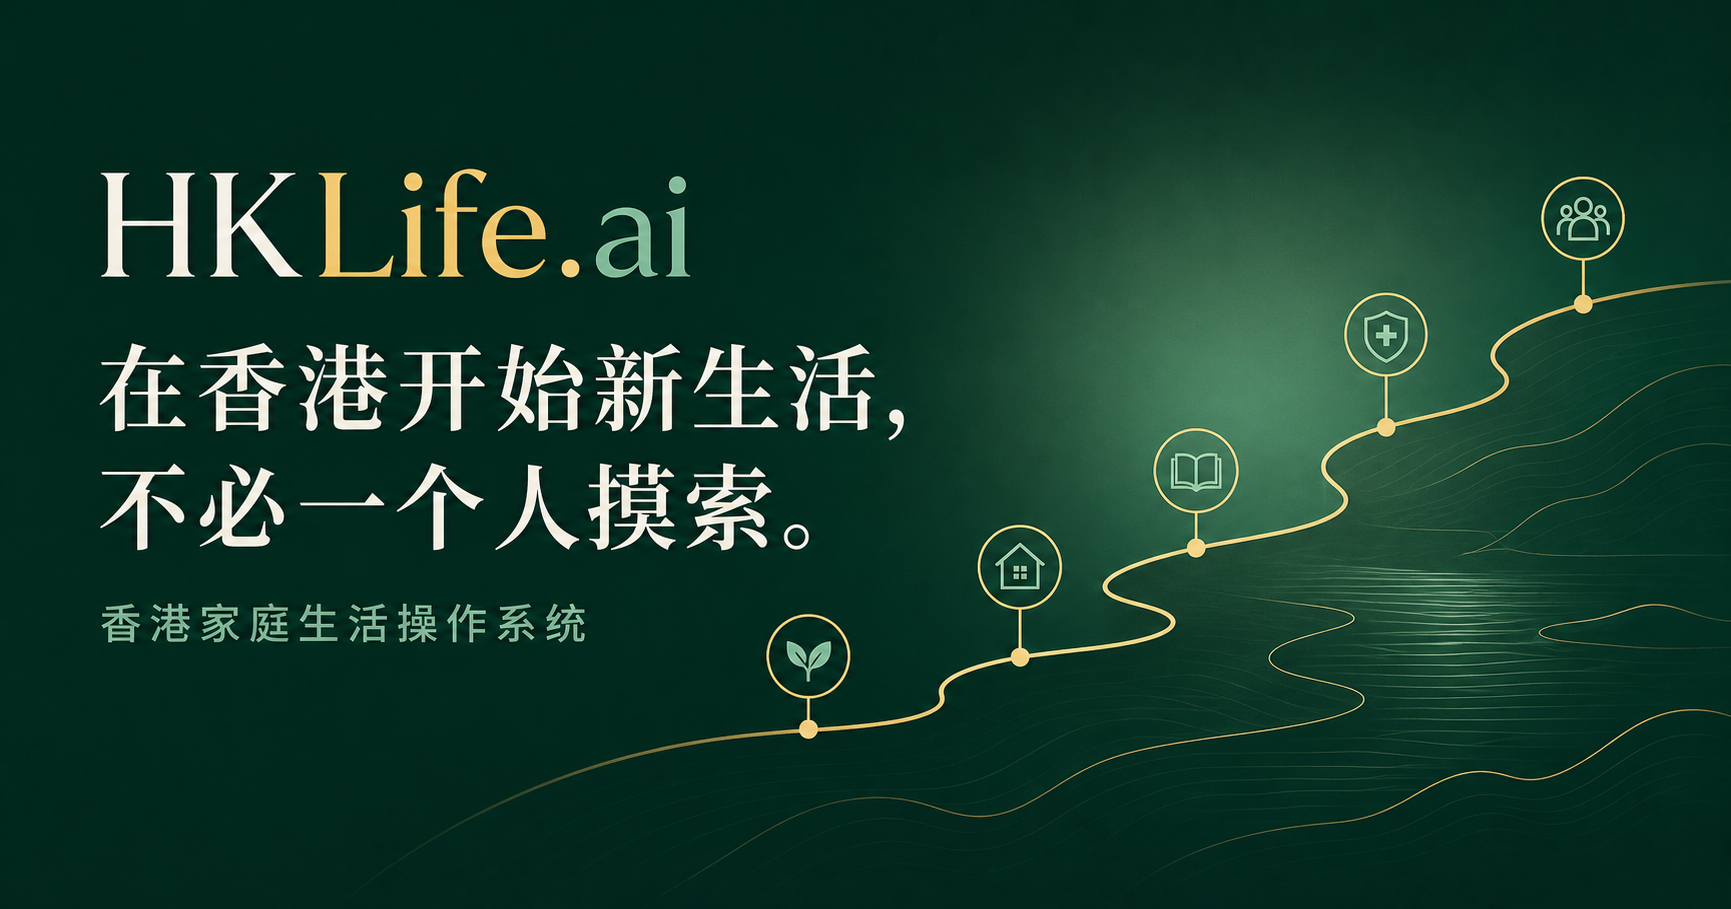
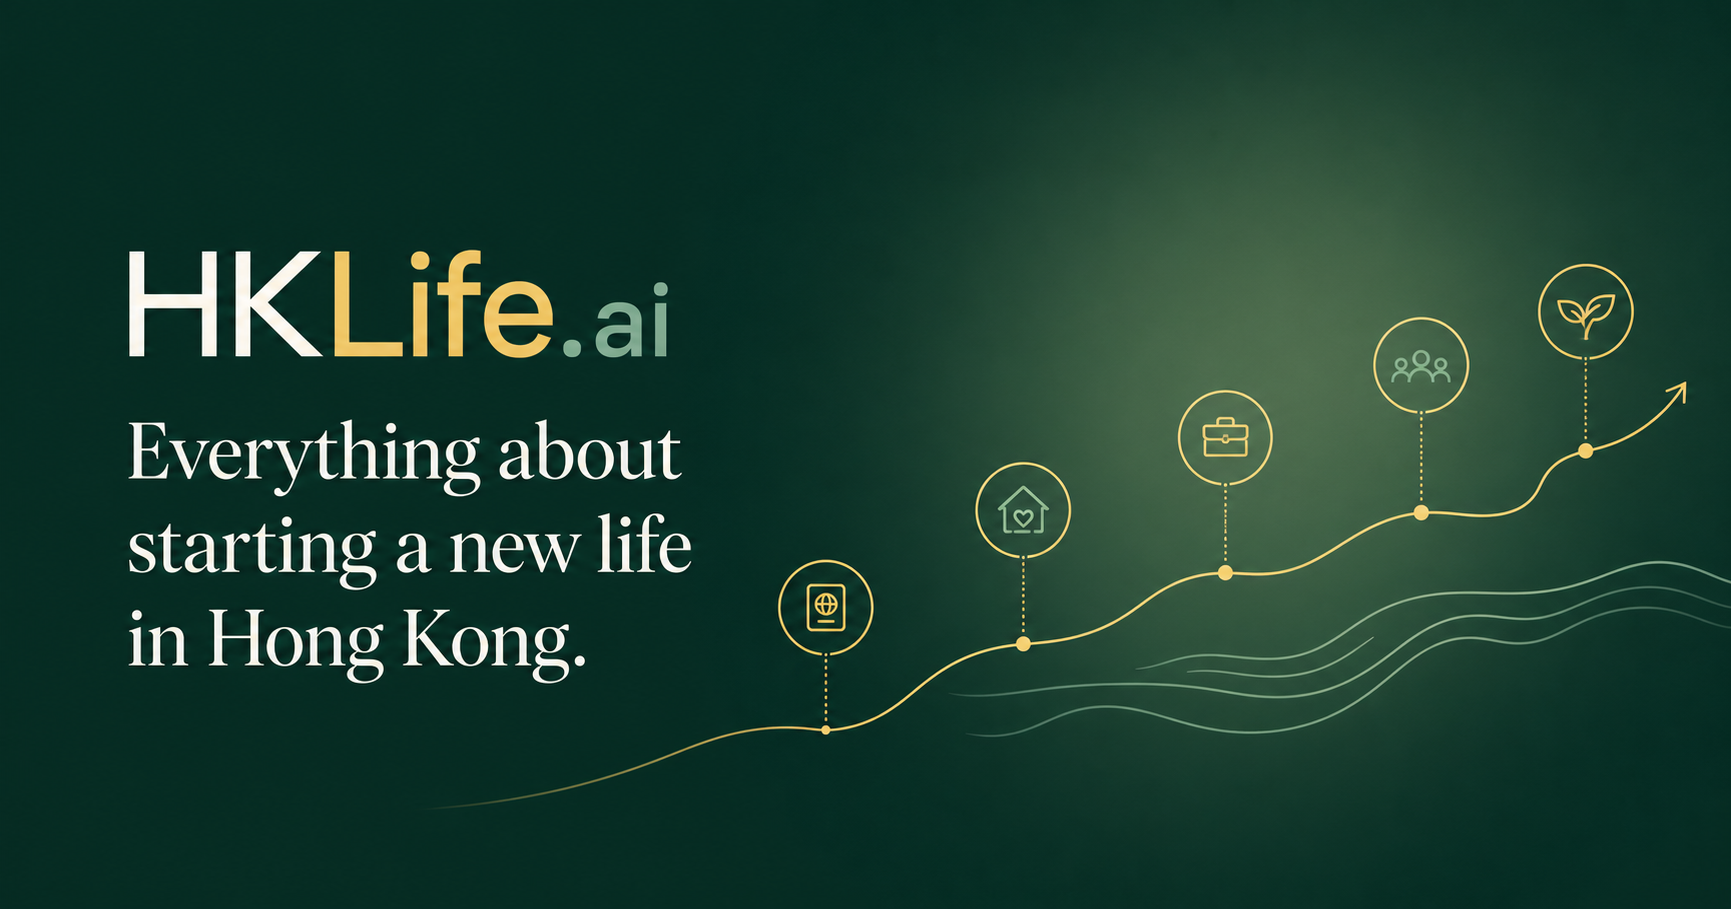
Update HKLife brand tagline

diff --git a/app/layout.tsx b/app/layout.tsx
@@ -7,7 +7,7 @@ export async function generateMetadata(): Promise<Metadata> {
   const host = requestHeaders.get("x-forwarded-host") ?? requestHeaders.get("host") ?? "hklife.ai";
   const protocol = requestHeaders.get("x-forwarded-proto") ?? (host.includes("localhost") ? "http" : "https");
   const base = new URL(`${protocol}://${host}`);
-  const title = "HKLife.ai — 香港家庭生活操作系统";
+  const title = "HKLife.ai — Everything about starting a new life in Hong Kong.";
   const description = "身份、生活、孩子、创业与财富。帮助每一个家庭更从容地在香港开始新生活。";
   return {
     metadataBase: base,